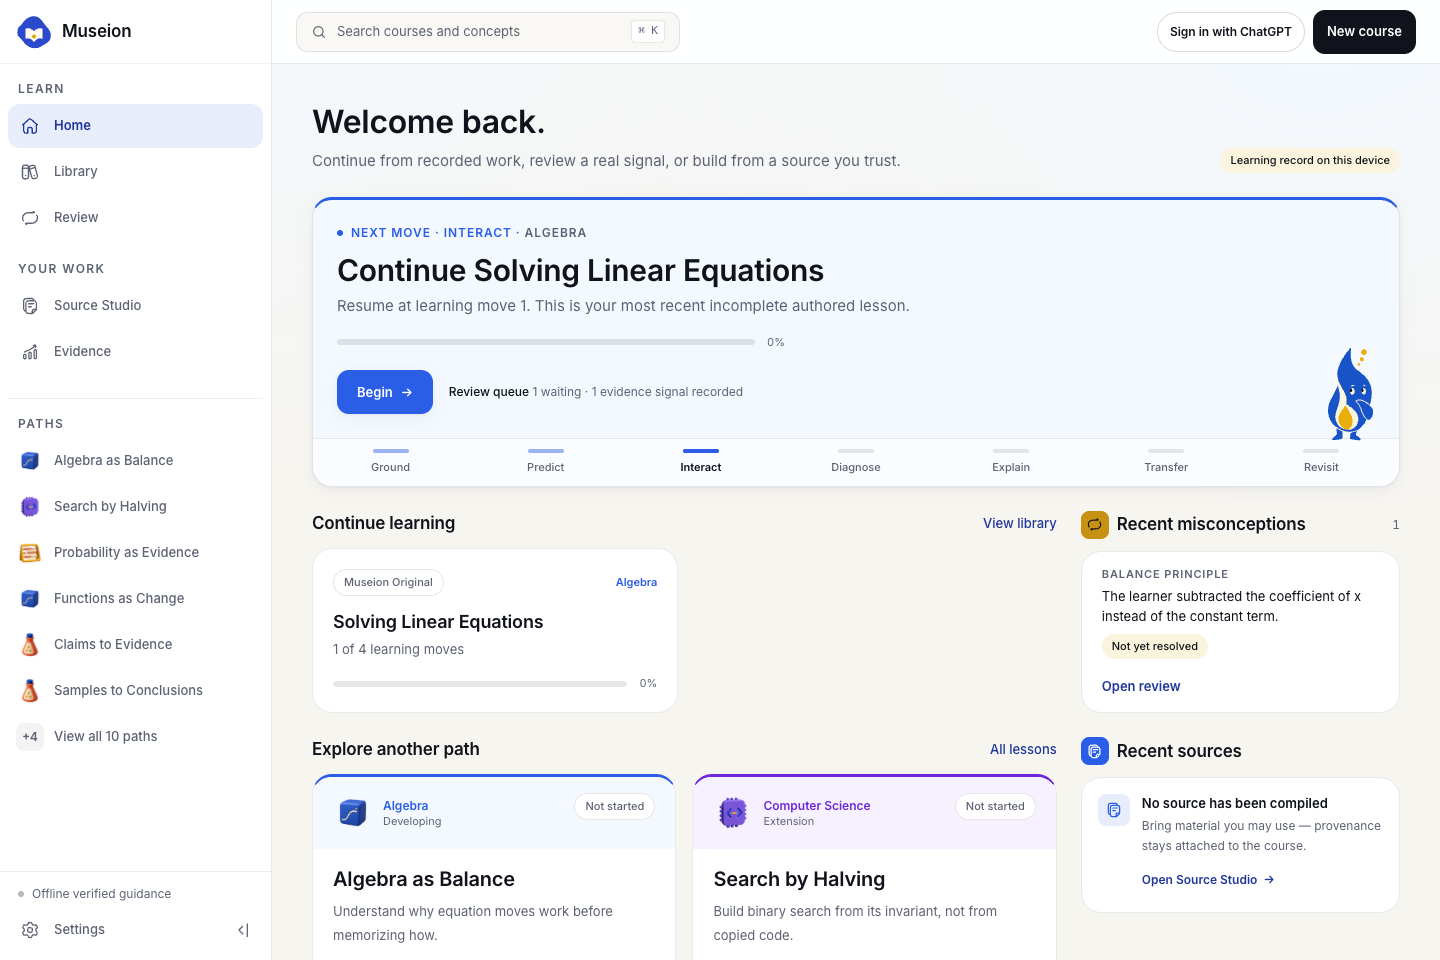
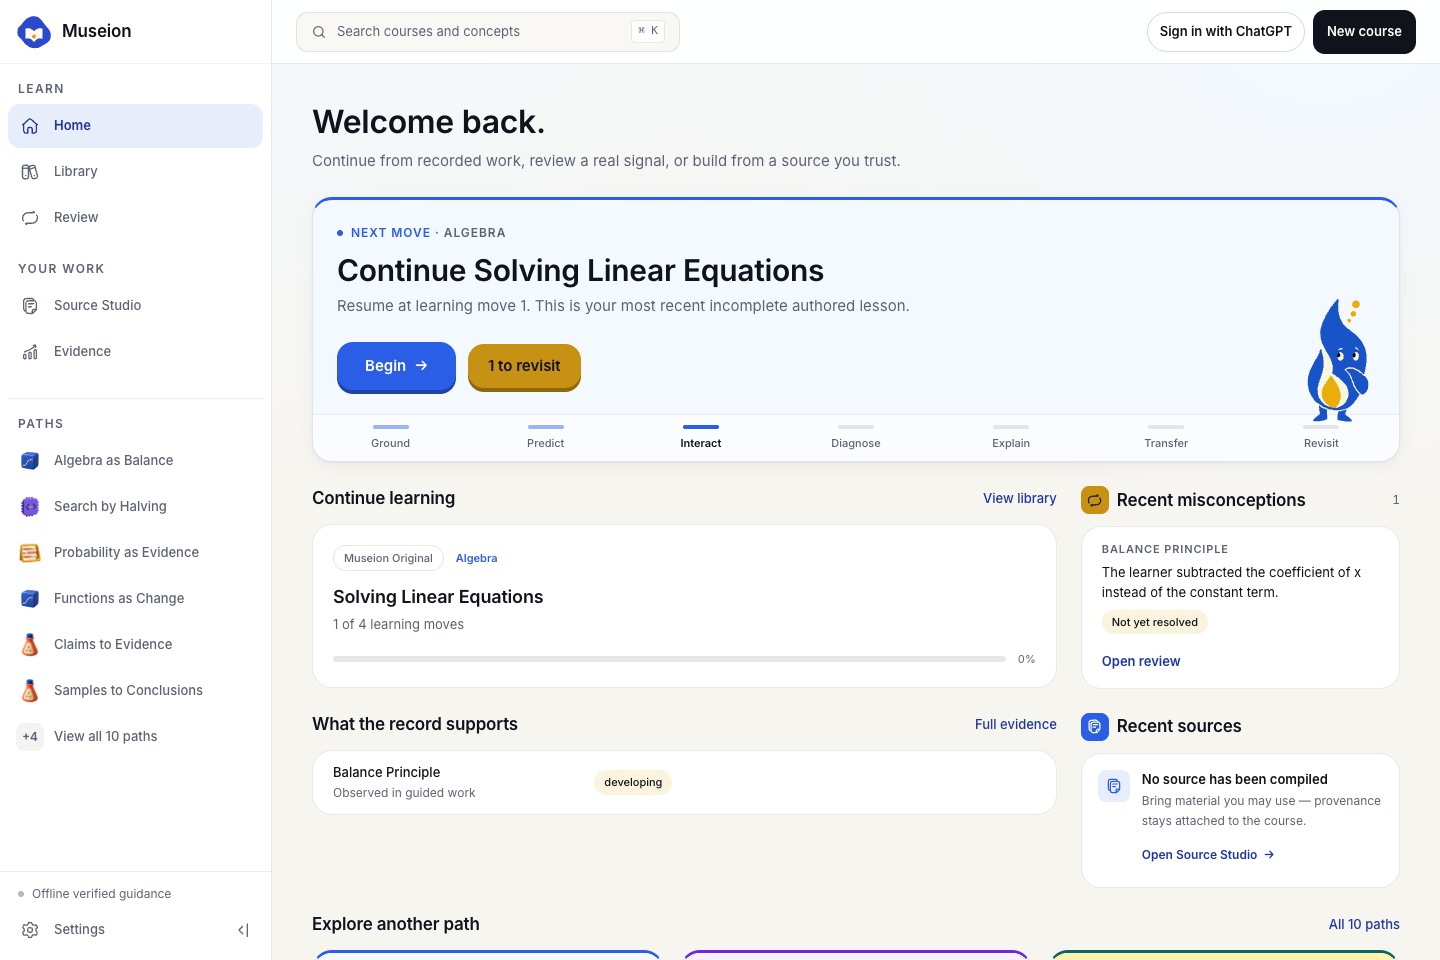
Close out the energy pass: system doc and product screenshots
DESIGN_SYSTEM_V2 gains the review page's scaled-up press grammar, the
library's record-warmed doors and map done-marks, and the shared
JourneyStats reading of the count-up rule. All nineteen locally
capturable screenshots regenerated against a production build
(course-review-desktop untouched: its flow requires a Sites actor).

diff --git a/docs/redesign/DESIGN_SYSTEM_V2.md b/docs/redesign/DESIGN_SYSTEM_V2.md
@@ -232,6 +232,15 @@ is that element. Chips, rails and washes stay tinted. The review queue, when
 it is non-empty, is the one sanctioned second press — gold, with the real
 count — and when the queue is empty it is simply absent: no zero, no urgency.
 
+On `/review` itself the same rule scales up rather than changing: the head of
+the queue takes the page's one full-fill press — the attention "Review now"
+inside a gold-edged card — every later item is a pressable card in the gold
+family, and the count arrives large in the header by count-up, "3 to revisit",
+because the queue is the product's honest urgency and deserves to be legible
+at a glance. Evidence carries the same press in its header when the queue is
+real. When it is not, both pages go quiet: Maia stays, the way forward is a
+secondary press, and no zero is printed anywhere.
+
 Cards that navigate take the card form, `.pressable-card`: a resting 2px
 hairline that takes the subject's accent as the pointer arrives, stands up on
 a 3px deep edge, and presses flat on click. Interactive `cardClasses()`
@@ -239,10 +248,22 @@ surfaces keep their blur-hover but also answer inside the click
 (`active:translate-y-px`); everything clickable responds visually within
 100ms.
 
+The record is allowed to warm a door. The library consults the real learner
+record, and a course card whose course is underway fills with its subject
+tint beside the record's progress ring — an open door among white fronts,
+stated by fill rather than by a chip, and only when the completion record
+says so. An empty record leaves the catalog exactly as it was.
+
 One more piece of honest juice: the journey tiles' counts arrive by counting
 up from 0 to the real recorded value (~400ms, reduced motion: instant).
 `countUpValue()` is pinned to never print a frame above the record — the
-animation approaches the truth from below, and lands on it exactly.
+animation approaches the truth from below, and lands on it exactly. The tiles
+render through one shared `JourneyStats`, on the dashboard and on Evidence,
+so two surfaces cannot drift into two readings of the same record. Evidence
+is where the record should feel *earned*: each competence-map section also
+takes its subject's accent as a top edge above its tint band — the same
+edge grammar as the subject's course card — while every caveat line on the
+page stays word for word.
 
 ## The path: course detail is a place
 
@@ -279,6 +300,12 @@ reader as an ordered list of lessons, each a link naming its position and
 state, with `aria-current="step"` on the current node; done and current
 states are bound by `tests/design-course-trail.test.ts`, including the
 no-padlock scan.
+
+The library's knowledge map borrows the trail's done grammar at map scale: a
+node whose lesson has a completed record trades its ordinal for the small
+accent-filled check (with "completed" spoken to a screen reader), and every
+other node keeps its number. Walked ground, from the same completion record —
+no other state exists, because the record supports no other claim.
 
 Shared primitives live in `src/components/ui`: `Card`, `Chip`, `ProgressRail`,
 `SectionHeader`, `StatTile`, `SubjectBadge`. Build the new surface out of these
